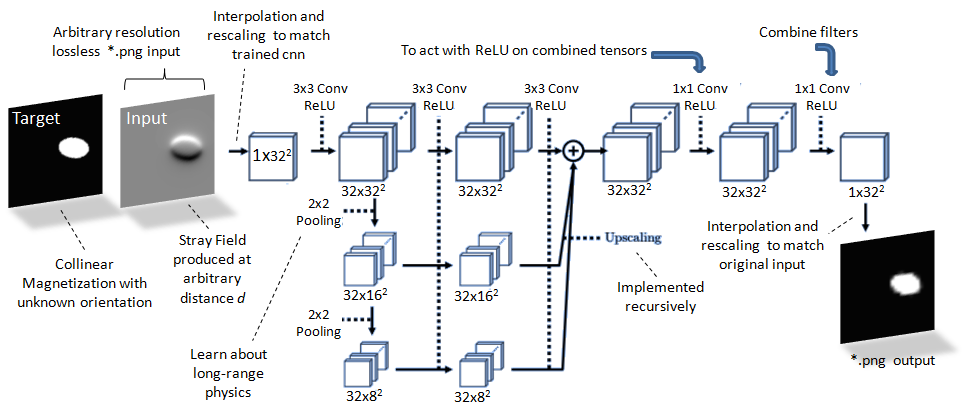
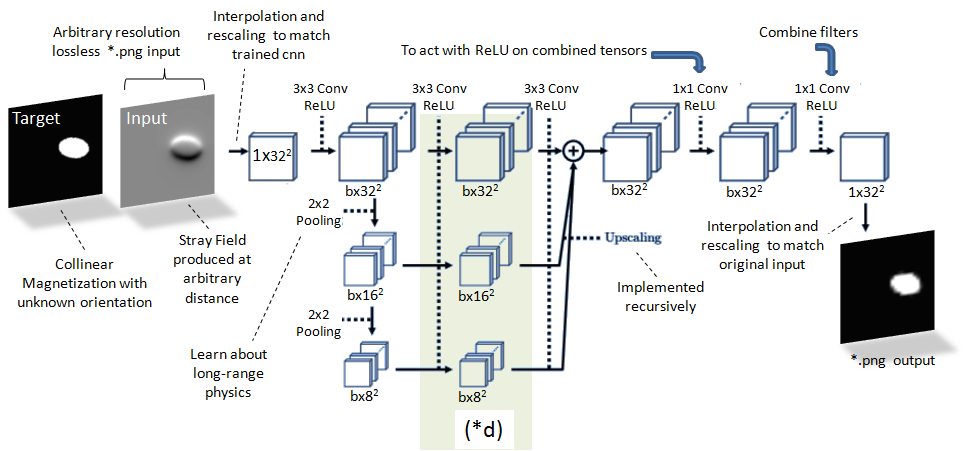
20171025: gpu+angle

diff --git a/magn_CNN/Learning_cnn.py b/magn_CNN/Learning_cnn.py
@@ -12,8 +12,8 @@ import os
 import argparse as ap
 import time
 from tensorflow.contrib import learn
-import Create_TrainingCNN as ct
 # personal modules
+import Create_TrainingCNN as ct
 from config import *
 
 # Reduce verbosity of tensorflow
@@ -99,30 +99,23 @@ def cnn_model_fn(mode,Config_dic):
   pool2_lyr1 = tf.layers.max_pooling2d(inputs=pool1_lyr1, pool_size=[Config_dic["Pool2_str_lyr1"][0]]*2, 
                                   strides=Config_dic["Pool2_str_lyr1"][1])
   
+  # Preparing for LAYER 2 ---------------         
+  list_layer2_up = [conv1]
+  list_layer2_mid = [pool1_lyr1]
+  list_layer2_bot = [pool2_lyr1]
   # LAYER 2 ---------------         
-  conv2 = tf.layers.conv2d(
-      inputs=conv1,
-      filters=Config_dic["Depth_lyr2"],
-      kernel_size=Config_dic["k_filt_str_lyr2"][0:2],
-      padding="same",
-      activation=act_type)  
-  # Pooling1, layer 2
-  pool1_lyr2 = tf.layers.conv2d(
-      inputs=pool1_lyr1,
-      filters=Config_dic["Depth_lyr2"],
-      kernel_size=Config_dic["k_filt_str_lyr2"][0:2],
-      padding="same",
-      activation=act_type)  
-  # Pooling2, layer 2
-  pool2_lyr2 = tf.layers.conv2d(
-      inputs=pool2_lyr1,
-      filters=Config_dic["Depth_lyr2"],
-      kernel_size=Config_dic["k_filt_str_lyr2"][0:2],
-      padding="same",
-      activation=act_type)  
+  for i in range(Config_dic["depth_cnn"]):
+      list_layer2_up.append(tf.layers.conv2d(inputs=list_layer2_up[i],filters=Config_dic["Depth_lyr2"], \
+      kernel_size=Config_dic["k_filt_str_lyr2"][0:2],padding="same",activation=act_type))
+        
+      list_layer2_mid.append(tf.layers.conv2d(inputs=list_layer2_mid[i],filters=Config_dic["Depth_lyr2"], \
+      kernel_size=Config_dic["k_filt_str_lyr2"][0:2],padding="same",activation=act_type))
+      
+      list_layer2_bot.append(tf.layers.conv2d(inputs=list_layer2_bot[i],filters=Config_dic["Depth_lyr2"], \
+      kernel_size=Config_dic["k_filt_str_lyr2"][0:2],padding="same",activation=act_type))
   
   # Do upscaling and combining
-  # tensors conv2,pool1_lyr3 and pool2_lyr3 
+  # tensors list_layer2_up[-1],list_layer2_mid[-1] and list_layer2_bot[-1] 
   # Pooling MUST rescale the map by powers of 2 by design
   
   # Upscaling
@@ -134,11 +127,11 @@ def cnn_model_fn(mode,Config_dic):
            int(Config_dic["img_size"][1]/(2**factor1)),Config_dic["Depth_lyr2"]] 
   ndim2 = [int(Config_dic["img_size"][0]/(2**factor2)), \
            int(Config_dic["img_size"][1]/(2**factor2)),Config_dic["Depth_lyr2"]]
-  US_pool1_lyr2 =  upscaling(pool1_lyr2,factor1,ndim1)
-  US_pool2_lyr2 =  upscaling(pool2_lyr2,factor2,ndim2)
+  US_pool1_lyr2 =  upscaling(list_layer2_mid[-1],factor1,ndim1)
+  US_pool2_lyr2 =  upscaling(list_layer2_bot[-1],factor2,ndim2)
 
   # Combining Upscaled pooling layers with the regular Conv layer
-  Combined_output = conv2 + US_pool1_lyr2 + US_pool2_lyr2
+  Combined_output = list_layer2_up[-1] + US_pool1_lyr2 + US_pool2_lyr2
   
   # LAYER 3 ---------------         
   # Apply a 1x1 convolution to act with ReLu, as in https://arxiv.org/pdf/1607.03597.pdf
@@ -271,8 +264,15 @@ if __name__ == "__main__":
        itemsel=int(len(loaddataset['Phi'])*Config_dic["Train_2_Valid"]) 
        bz_sel = np.float32(Config_dic["Multiplier"]*loaddataset["Bz"][0:itemsel][:])
        m_sel = np.float32(loaddataset["mloc"][0:itemsel][:])  
-       #phi = loaddataset["Phi"][itemsel][:]
-       #tht = loaddataset["Theta"][itemsel][:]   
+       if Config_dic["target_type"]==0: # comparing only shapes
+           mz_in = m_sel.copy()
+       elif Config_dic["target_type"]==1:
+           #phi_sel = np.tile(loaddataset["Phi"][0:itemsel],[1,m_sel.shape[1]])
+           tht_sel = np.float32(np.tile(loaddataset["Theta"][0:itemsel],[1,m_sel.shape[1]]) )
+           #mz_in = np.float32(m_sel*np.cos(tht_sel))
+           combine_m = np.copy(m_sel)
+           combine_m[m_sel>0] = tht_sel[m_sel>0]       
+           mz_in = np.float32(combine_m)           
    else:
        # folder is empty
        print('\nTraining directory is empty.\n')
@@ -306,7 +306,7 @@ if __name__ == "__main__":
       print('2/2 - Executing the training\n')
       print('Epochs: %4d Batch size: %4d Learn rate: %6.4f Dataset size: %5d \n' \
             %(Config_dic["epochs"],Config_dic["batch_size"],Config_dic["learn_rate"],itemsel))
-      run_training(loss,optimizer,init,x,y,bz_sel,m_sel,Config_dic,data_filename)
+      run_training(loss,optimizer,init,x,y,bz_sel,mz_in,Config_dic,data_filename)
       print('Done!\n')
     else:
         print('\nThe most recent file will be used in predictions.')            

diff --git a/magn_CNN/config.py b/magn_CNN/config.py
@@ -26,6 +26,8 @@ k_filt_str_lyr2 = json.loads(config.get("model","k_filt_str_lyr2"))
 Depth_lyr2 = config.getint("model", "Depth_lyr2")
 k_filt_str_lyr3 = json.loads(config.get("model","k_filt_str_lyr3"))
 Depth_lyr3 = config.getint("model", "Depth_lyr3")
+depth_cnn = config.getint("model", "depth_cnn")
+target_type = config.getint("model", "target_type")
 
 #training
 learn_rate = config.getfloat("training", "learn_rate")
@@ -59,10 +61,12 @@ Config_dic= {"Ntrain_ex": Ntrain_ex,
 		"Depth_lyr2": Depth_lyr2,
 		"k_filt_str_lyr3": k_filt_str_lyr3,
 		"Depth_lyr3": Depth_lyr3,
+		"depth_cnn":depth_cnn,
 		"learn_rate": learn_rate,
 		"epochs": epochs,
 		"batch_size": batch_size,
 		"Train_2_Valid": Train_2_Valid,
+		"target_type": target_type,
 		"Multiplier": Multiplier,
 		"Script_mode": Script_mode,
 		"Dst_ovwr": Dst_ovwr,
